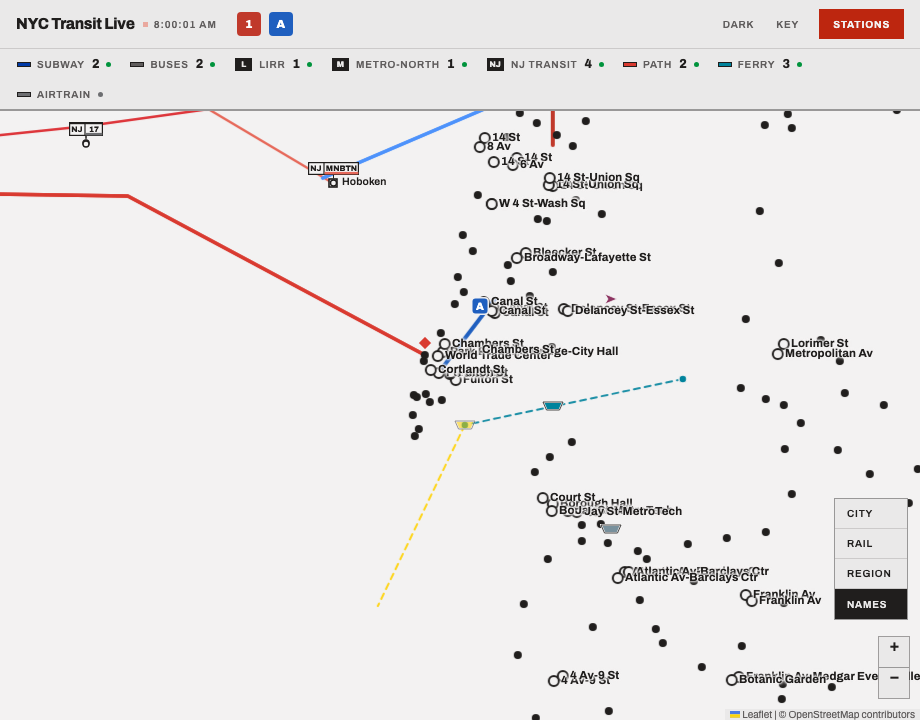
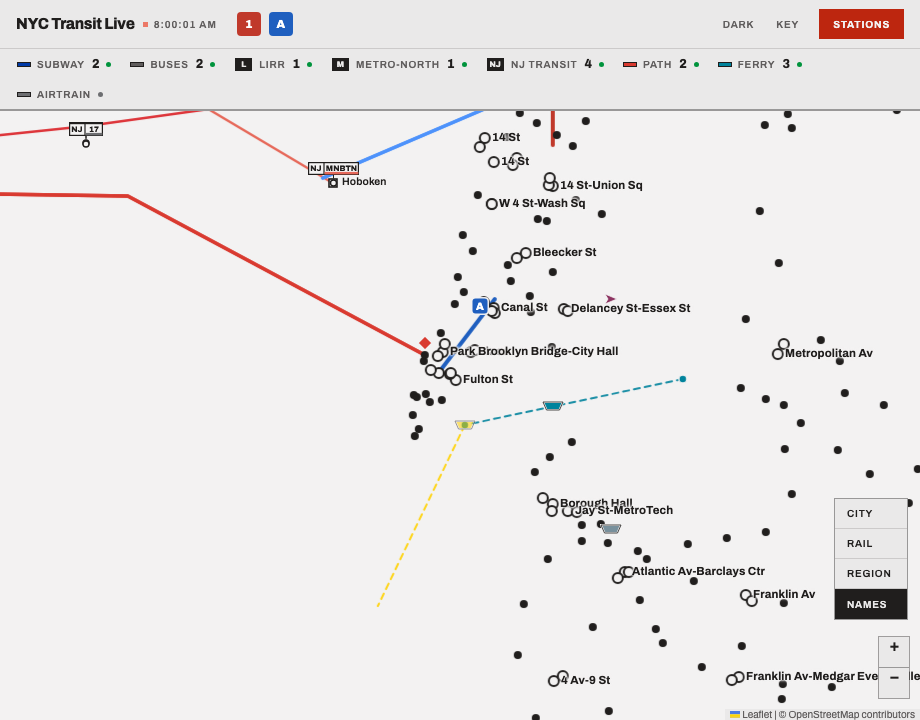
Subway hubs: the record re-run after the three rulings
The PR body, the ledger and the screenshots at 0c17079. The census stays at 48 complexes and
100 rings, now named once each: the hubs band draws 48 names where it drew 100, zoom 14 draws
444 names for 444 complexes, and the transition world (a payload with no complex_id) still
draws exactly the deployed build's map. The diagnosis's grid is re-run beside the before
column, the two after screenshots are retaken (each complex named once, the overprinting
gone), and the mutation table is all sixteen at 0c17079.

The ledger's F9 row gains ruling 1 and ruling 3; its F1 note gains ruling 2's floor and the
monitor's list. The body records the concurrent branch, claude/bus-zoom-rule: five shared
files, a clean git merge-tree, and the merged tree (18dab93, on no branch) passing backend,
node and the full hermetic e2e.

Documents and screenshots only.

Claude-Session: https://claude.ai/code/session_01Ap2nYH4fmBJS44TNwaTyoE

diff --git a/docs/reviews/subway-hub-definition/PR-BODY.md b/docs/reviews/subway-hub-definition/PR-BODY.md
@@ -1,9 +1,28 @@
 # Subway hubs: a hub is a station complex, not a stop
 
-Backend and frontend, four commits, the ruling that followed the label-band diagnosis of
-2026-09-25: the backend half (`92636bc`), the frontend half (`ff030f0`), the adversarial
-review's fixes (`3ff5c49`) and this record. Nothing
-touches `njt_auth.py` or any credentialed path, so **no NJ Transit mint was spent**.
+Backend and frontend, the ruling that followed the label-band diagnosis of 2026-09-25 and
+three more the operator gave after reading the first record:
+
+| commit | |
+| --- | --- |
+| `92636bc` | backend: `transfers.txt` required, `complex_id` on `/api/subway-stops` |
+| `ff030f0` | frontend: the predicate reads the complex; ring, name and kicker follow |
+| `3ff5c49` | the adversarial review's fixes (findings H1, H3, H4, H6, H7, H10) |
+| `d4cefee` | the first record |
+| `fcbce7e` | **ruling 1**: one name per complex |
+| `b786b4f` | **ruling 2**: a floor of one cross-stop row; the monitor names every member |
+| `0c17079` | **ruling 3**: the Key row reads "Transfer station: change between lines here" |
+| this record | the census, the grid and the screenshots re-run at `0c17079` |
+
+Nothing touches `njt_auth.py` or any credentialed path, so **no NJ Transit mint was spent**.
+
+**A concurrent branch shares five of these files.** `claude/bus-zoom-rule` (another session,
+open at the same time) touches `frontend/helpers.js`, `frontend/index.html`,
+`frontend/systems/shared.js`, `tests/e2e/fixtures/mr_pins.json` and
+`docs/reviews/map-redesign-rounds.md`. `git merge-tree` reports a clean merge of the two tips,
+and the merged tree's shared suites are recorded under Gates. The one semantic meeting point:
+that branch lands the map at the City preset, zoom 13, which is this branch's hubs band, so
+the first view a rider sees carries the 48 complex names.
 
 ## The finding
 
@@ -39,6 +58,17 @@ pairs; a stop in no row is its own complex) and serves it on `/api/subway-stops`
 complex: **a hub is a complex serving three or more trunks, or two or more trunks across two
 or more stops.** The ring and the label class read the same predicate; the kicker lists the
 routes of the complex, not the stop. The station alerts join is untouched.
+
+## Three more rulings, after the first record
+
+1. **One name per complex.** The ring on every stop; the label only on the stop whose id is
+   the complex id, in its own name. No complex draws two labels; the census stays at 48.
+2. **A floor under `transfers.txt`.** A table with zero cross-stop rows fails the load (the
+   live archive has 150; the floor is one), the content checked and not only the presence, as
+   the bus probe checks its capture. The monitor's subway file list names every required
+   member.
+3. **The Key row reads "Transfer station: change between lines here."** P1e moves by that
+   wording, recorded.
 
 ## The change
 
@@ -94,6 +124,31 @@ for the station panel.
 `load_subway_station_routes` returned `{}`. Both now say it raises, and that the backend half
 has landed.
 
+**8. One name per complex (ruling 1).** `stationNamesItself(stationId, complex)` says yes for
+the stop whose id is the complex id and for any stop whose complex is not known, and
+`loadStations` binds a name only where it says yes. The other stops of a complex keep their
+ring, their popup and their kicker, and draw no name. Times Square is named once, "Times
+Sq-42 St" on `127`; the Port Authority stop `A27` is ringed and unnamed. At zoom 14, where the
+band draws every name there is, the real payload draws 444 names for 444 complexes.
+
+**9. The floor (ruling 2).** `validate_subway_archive` runs the loader's own transfer parser,
+split out as the stream parser `_parse_transfer_rows` the way `_parse_stops_rows` was, through
+`require_parsed`, the gate `stops.txt` already has. Headers only, self rows only, renamed
+columns, or only "no transfer possible" rows: each is refused, and the error names
+`transfers.txt` for `/api/status`. The committed 613-row live table passes it with 150 pairs.
+`stop_times.txt` keeps PR 116's presence-only rule, which the ruling did not reach. **And the
+monitor's `SUBWAY_REQUIRED_MEMBERS`**, which stayed `("stops.txt", "shapes.txt")` through PR 116,
+now names every member `static_data._REQUIRED_MEMBERS` does, and a test holds both to one
+hand-written list. The ruling said "all four"; the app requires five (`stops`, `shapes`,
+`trips`, `stop_times`, `transfers`), and the monitor names all five.
+
+**10. The Key (ruling 3).** "Subway transfer station: two or more route lines meet (click for
+arrivals)" was F9's rule in words, and 95 stops where two lines meet at one platform now draw a
+dot. The row reads **"Transfer station: change between lines here"**. P1e's golden moves by
+that one line of `legend/names`, regenerated for that key alone; `keyglyphs.test.js` finds the
+row by its new words. **A1x did not move**: the ruling named it, and it was run, but it
+measures each Key row's ink and the row count rather than the words, so it passes unchanged.
+
 ## One reading the ruling's words allow, measured
 
 "Two or more trunks across two or more stops" could mean the union of the complex's trunks,
@@ -105,7 +160,9 @@ interchanges under either reading, so the union is implemented and nothing turns
 ## The census
 
 On production's payload, **124 rings under F9 become 100 stops in 48 complexes**, all 48
-pinned by name in `subway.spec.js` **D2i1**:
+pinned by name in `subway.spec.js` **D2i1**. Since ruling 1 each complex is **named once**, so
+the hubs band draws 48 names, one per row below, on the stop whose id is the complex id (the
+id in brackets):
 
 | complex | stops | routes |
 | --- | --- | --- |
@@ -167,36 +224,37 @@ Hills-71 Av, Queens Plaza and Prospect Park are the other three single-stop hubs
 ## Before and after, the diagnosis's own grid
 
 The diagnosis's scripts, rerun unchanged except that the oracle reads the complex. Each cell
-is band, labels drawn / labels drawn with the hub class, and the City preset's in-view count.
-"Before" is the deployed build (`d49e9a7`) against production; "after" is this branch against
-the same payload plus `complex_id`, through the hermetic mocks.
+is band, names drawn / names drawn with the hub class, and the City preset's in-view count.
+"Before" is the deployed build (`d49e9a7`) against production; "after" is this branch at
+`0c17079` against the same payload plus `complex_id`, through the hermetic mocks.
 
-| zoom | Names | before: deployed, production | after: this branch, same payload |
+| zoom | Names | before: deployed, production | after: `0c17079`, same payload |
 | --- | --- | --- | --- |
 | 11 | on | none, 0 / 0, 0 in view | none, 0 / 0, 0 in view |
-| 12 | on | hubs, **124 / 124**, 88 in view | hubs, **100 / 100**, 92 in view |
-| 13 | on | hubs, **124 / 124**, 25 in view | hubs, **100 / 100**, 67 in view |
-| 14 | on | all, 496 / 124, 76 in view | all, 496 / 100, 76 in view |
-| 15 | on | all, 496 / 124, 36 in view | all, 496 / 100, 36 in view |
+| 12 | on | hubs, **124 / 124**, 88 in view | hubs, **48 / 48**, 44 in view |
+| 13 | on | hubs, **124 / 124**, 25 in view | hubs, **48 / 48**, 27 in view |
+| 14 | on | all, 496 / 124, 76 in view | all, **444 / 48**, 55 in view |
+| 15 | on | all, 496 / 124, 36 in view | all, 444 / 48, 25 in view |
 | 11 to 15 | off | the same bands, 0 / 0 | the same bands, 0 / 0 |
 
 `stationLabelShown`, D2j's oracle, disagreed with the page 0 times in every cell of both
-columns, and no local name is drawn in either hubs band. The other hermetic worlds are
-unchanged: the stock fixture (two one-trunk stations, no hub) still shows every name from 13,
-D2j's world still has its one hub at Fulton St (three trunks at one stop), and the
-`routes: []` world still reads F1's degraded band.
+columns, and no local name is drawn in either hubs band. 444 is the number of complexes: 496
+stops, 52 of them siblings of a named stop, each ringed or dotted as before and unnamed. The
+other hermetic worlds are unchanged: the stock fixture (two one-trunk stations, no hub) still
+shows every name from 13, D2j's world still has its one hub at Fulton St (three trunks at one
+stop), and the `routes: []` world still reads F1's degraded band (every name from 13, one per
+complex).
 
 **One transition world, measured because it is real for an hour.** A browser holding the
-pre-deploy payload runs the new frontend on stops with no `complex_id`. At `3ff5c49` that draws
+pre-deploy payload runs the new frontend on stops with no `complex_id`. At `0c17079` that draws
 exactly the "before" column: hubs, 124 / 124 at 12 and 13, 88 and 25 in view at the City
-preset, the oracle agreeing in every cell. At `ff030f0` it drew 14 / 14, which is review
-finding H1 and the reason for the change above.
+preset, 496 names at 14, the oracle agreeing in every cell. At `ff030f0` it drew 14 / 14, which
+is review finding H1 and the reason for the change above.
 
-## What a rider sees, and one finding for the operator
+## What a rider sees
 
 Zoom 13, Names on, production's payload through the hermetic mocks, 1280 wide. Left is
-`d49e9a7`, right is this branch at `ff030f0`; on this payload `3ff5c49` draws the same hundred
-rings and names (the grid above was rerun there).
+`d49e9a7`, right is this branch at `0c17079`.
 
 | before | after |
 | --- | --- |
@@ -205,24 +263,16 @@ rings and names (the grid above was rerun there).
 
 Before: 72 St and 81 St on Central Park West named, 7 Av and 5 Av/53 St named, and Times
 Square, Grand Central, Union Square, Herald Square, Canal St and Fulton St drawn as plain dots
-with no name. After: the reverse, which is the ruling.
+with no name. After: the reverse, which is the first ruling, and each of those stations named
+once, which is ruling 1.
 
-**FINDING FOR THE OPERATOR: a complex's name is now drawn once per stop, and they overprint.**
-The ruling puts the ring and the hub class on every stop of a hub complex, and a name label is
-per stop, so **32 of the 100 hub labels repeat a name another stop of the same complex already
-draws**: "Times Sq-42 St" four times, "Fulton St" four, "Canal St" four, "Grand Central-42
-St", "14 St-Union Sq", "Atlantic Av-Barclays Ctr" and "Broadway Junction" three each, and
-fifteen more twice. Under F9 it was 3. At zooms 12 and 13 they sit a few metres apart and
-overprint, visibly in both screenshots (Grand Central, Union Square, Canal St, and Chambers St
-against Brooklyn Bridge-City Hall), and the City preset's zoom 13 now carries 67 hub names in
-view where it carried 25.
-
-**Not changed here, because it is a design decision and the ruling made the other one**: "the
-ring and the label class read the same predicate". The narrowest remedy would keep the ring on
-every stop and give the `hub` class (and so the name at 12 and 13) to one stop per complex,
-the one whose id is the complex id, which is one predicate plus one comparison. Names at 14
-and above would still be per stop, as they are today for every local. That is the operator's
-to rule on; nothing in this branch depends on the answer.
+**What ruling 1 measured away.** At `3ff5c49`, with a name per stop, 32 of the 100 hub names
+repeated another stop of the same complex ("Times Sq-42 St" four times, "Fulton St" four,
+"Canal St" four) and overprinted at 12 and 13, and the City preset's zoom 13 carried 67 hub
+names in view. Now it is 27, none repeated. What remains is ordinary label collision between
+two DIFFERENT complexes that sit close together (Park Place against Brooklyn Bridge-City Hall
+downtown), which is the density MR2 measured for every zoom and not something a complex rule
+can decide.
 
 ## Tests
 
@@ -264,14 +314,23 @@ committed archive so the two fixtures cannot drift apart silently.
 | node: a closed sibling platform does not make a complex two stops (H4) | "hub definition: a stop nothing calls at does not make a complex two stops" |
 | backend: transfer types 3, 4 and 5 join nothing, a blank type joins (H7) | `test_a_transfer_type_that_says_no_change_joins_nothing` |
 | backend: the complex id is the smallest STATION id, whatever the row order and whatever non-station id links the complex (H10) | `test_the_complex_id_is_the_smallest_station_in_it_whatever_the_order` |
+| **ruling 1: no complex draws two names**, at zoom 14 where every name is drawn: 444 names for 444 complexes, each on the stop whose id is the complex id, in its own words; `A27` ringed and unnamed | **D2i6** |
+| ruling 1: the census stays at 48, one hub name per hub complex, every one on a ringed stop | **D2i1**; **D2i2** draws 48 at zoom 13 |
+| ruling 1, node: over the real payload one stop per complex names itself, 48 of them hubs; with no complex known every stop does | "hub definition: one name per complex, on the stop whose id is the complex id" |
+| **ruling 2: zero cross-stop rows fail the load**: headers only, self rows only, renamed columns, only type 3 | `test_validate_rejects_a_transfers_table_with_no_cross_stop_row`, four cases |
+| ruling 2: the same end to end, cache and redownload both refused | `test_a_publication_whose_transfers_say_nothing_fails_the_load` |
+| ruling 2: one pair passes, and so does the committed live table, with its 150 pairs | `test_validate_accepts_one_cross_stop_row_and_the_live_table` |
+| **ruling 2: the monitor names every required member**, each missing one a FAIL naming it, and the monitor's list equal to the app's | `test_contract_monitor.py::test_subway_static_missing_required_member_is_fail`, five cases, and `test_the_monitor_requires_what_the_app_requires` |
+| **ruling 3: the Key row's words** | `pins.spec.js` **P1e** (moved by one line) and `keyglyphs.test.js` test 7 |
 | **F11's alerts pin holds** | `pins.spec.js` **P3c**, its golden untouched |
 
 **Three node tests rewritten rather than deleted**, because the rule they asserted changed:
 "one trunk is a local dot and two or more is a transfer ring" became the complex rule's test,
 F9's pairs test keeps its one-trunk half and moves its two-trunk examples across two stops,
 and the label test gains the complex forms. **P2a's golden moves by one field**, `complex`,
-and against `main` the whole change to `mr_pins.json` is one line, `"complex": null`: the stock
-world names no complex, and its registry entry says so. Nothing else in the golden moved.
+and against `main` the change to `mr_pins.json` is two lines: `"complex": null` in P2a's
+registry entry (the stock world names no complex, and its entry says so), and P1e's one row of
+`legend/names`, moved by ruling 3's wording. Nothing else in the golden moved.
 D2i's title and D2's fixture comment now say three trunks at one stop, which is what makes
 Fulton St its world's one hub.
 
@@ -279,22 +338,27 @@ Fulton St its world's one hub.
 
 Each in a real `git worktree` detached at the commit under test, applied alone, the named tiers
 run against it, and the tree verified clean before and after. The four the ruling named ran at
-`ff030f0` and **again at `3ff5c49`**, with the review's guards added; the table is the second
-run.
+`ff030f0`, again at `3ff5c49` with the review's guards added, and **all sixteen at `0c17079`**,
+which is the table.
 
 | # | Guard reverted | Result | Killed by |
 | --- | --- | --- | --- |
-| M1 | the predicate counting per stop again (F9's `trunks >= 2`, the stop count ignored) | **killed** | node: **the diagnosis's stations** (96 St first) and six more; e2e **D2i1**, **D2i2** |
-| M1b | the same at the draw's call site: the ring and the label handed the stop's own routes | **killed** | e2e **D2i1**, **D2i2**. Node cannot see a call site, which is why the e2e tier exists |
-| M2 | `transfers.txt` removed from the required tuple | **killed** | the two `[transfers.txt]` F1 cases, the declared-set gate and `test_validator_rejects_an_archive_missing_a_required_member[subway-transfers.txt]` |
+| M1 | the predicate counting per stop again (F9's `trunks >= 2`, the stop count ignored) | **killed** | node: **the diagnosis's stations** (96 St first) and seven more; e2e **D2i1**, **D2i2** |
+| M1b | the same at the draw's call site: the ring and the label handed the stop's own routes | **killed** | e2e **D2i1**, **D2i2**, **D2i6**. Node cannot see a call site, which is why the e2e tier exists |
+| M2 | `transfers.txt` removed from the required tuple | **killed** | the declared-set gate and `test_the_monitor_requires_what_the_app_requires`. At `ff030f0` the missing-member cases killed it too; since ruling 2 the floor's own parser also refuses a missing `transfers.txt`, so those cases no longer tell the two apart and the declared-set gate is what does |
 | M3 | the kicker reading the stop's routes | **killed** | e2e **D2i3**, and **D2i4**'s premise |
 | M4 | union-find dropped for pairwise only (each station's own partners) | **killed** | **`test_a_three_stop_chain_is_one_complex`**, the non-station link test, and the H7 and H10 tests |
 | M5 | H1's fallback removed: a bare routes list read as a stop alone | **killed** | e2e **D2i5**; node, three tests |
 | M6 | the theme repaint asking the stop's routes | **killed** | e2e **D2i1**'s theme swap. At `ff030f0` this survived the whole suite, which is review finding H3 |
 | M7 | every stop counted toward "two stops", routed or not | **killed** | node, the H4 test |
-| M8 | the transfer-type filter removed | **killed** | `test_a_transfer_type_that_says_no_change_joins_nothing` |
+| M8 | the transfer-type filter removed | **killed** | the H7 test, and the floor's `no-transfer-possible-only` case |
 | M9 | the complex id as the first station stops.txt lists | **killed** | `test_the_complex_id_is_the_smallest_station_in_it_whatever_the_order` |
 | M9b | the complex id as the union-find root | **killed** | the same test, through the lower-sorting non-station id |
+| M10 | **ruling 1 at the call site**: a name bound on every stop | **killed** | e2e **D2i6**, **D2i1**, **D2i2** |
+| M10b | **ruling 1 in the helper**: `stationNamesItself` always yes | **killed** | node, the one-name test; e2e **D2i6** |
+| M11 | **ruling 2's floor removed** from `validate_subway_archive` | **killed** | the four no-cross-row cases and the end-to-end load test |
+| M12 | **ruling 2's monitor list** without `transfers.txt` | **killed** | `test_subway_static_missing_required_member_is_fail[transfers.txt]` and the equality test |
+| M13 | **ruling 3's words** reverted to F9's | **killed** | `pins.spec.js` **P1e**; `keyglyphs.test.js` test 7 |
 
 **What M1 did not kill at `ff030f0`, measured, and said so rather than hidden: D2j.** D2j's
 oracle and the page share `isTransferStation`, so a mutation to the rule moves both sides,
@@ -310,93 +374,82 @@ is why the synthetic chain exists.
 One round, over `92636bc..ff030f0`, run as the repository's `adversarial-review` workflow in
 its own worktree: five finders (silent failure, removed behaviour, boundary and type, test
 vacuity, operator reality), a triage that merged 17 candidates into 10, and batched verifiers.
-**Nine confirmed, one refuted.** Six are fixed in `3ff5c49`; three are the operator's. The
+**Nine confirmed, one refuted.** Six are fixed in `3ff5c49`; the other three went to the
+operator and are fixed on the rulings in `b786b4f` and `0c17079`. The
 findings are numbered H1 to H10 here, because this record already cites MR2's F1 and F9 and
 the review's own F-numbers collided with them.
 
 | # | Severity | Finding | Disposition |
 | --- | --- | --- | --- |
 | H1 | medium | A payload with no `complex_id` (a browser's cached copy for the hour after a deploy) read as "every stop alone": 14 rings, no subway name in Manhattan at 12 or 13, Names pressed | **Fixed.** A bare list gets F9's answer; **D2i5** |
-| H2 | medium | A `transfers.txt` that is present with no cross-stop rows loads as every stop alone under `ready`, and the comment claimed the requirement prevented that | **Comment fixed; the gap is for the operator**, below |
+| H2 | medium | A `transfers.txt` that is present with no cross-stop rows loads as every stop alone under `ready`, and the comment claimed the requirement prevented that | **Fixed on ruling 2** (`b786b4f`): a floor of one cross-stop row; four shapes of "says nothing" refused |
 | H3 | medium | No test repainted the rings on a theme swap where complex and stop disagree; the repaint mutated to per-stop survived | **Fixed.** D2i1 swaps to dark; M6 now dies |
 | H4 | low | A stop with no service counted toward "two or more stops" | **Fixed**, node test, M7 |
-| H5 | low | The Key still reads "Subway transfer station: two or more route lines meet", and 95 stops where two lines meet at one stop now draw a dot | **For the operator**, below |
+| H5 | low | The Key still reads "Subway transfer station: two or more route lines meet", and 95 stops where two lines meet at one stop now draw a dot | **Fixed on ruling 3** (`0c17079`): "Transfer station: change between lines here" |
 | H6 | low | The two corrected comments overclaimed: an absent `stop_times.txt` fails the load, a header-only one does not | **Fixed** |
 | H7 | low | `transfer_type` 3 (no transfer possible) and 4/5 (in-seat) joined stops | **Fixed**, test, M8 |
-| H8 | low | The contract monitor's `SUBWAY_REQUIRED_MEMBERS` is still `("stops.txt", "shapes.txt")`, so its drift check passes a publication production now refuses | **For the operator**, below |
+| H8 | low | The contract monitor's `SUBWAY_REQUIRED_MEMBERS` is still `("stops.txt", "shapes.txt")`, so its drift check passes a publication production now refuses | **Fixed on ruling 2** (`b786b4f`): the monitor names every member, held equal to the app's |
 | H9 | low | "Nothing covers paintZoomBand's hub count reading the complex" | **Refuted**: its premise that no e2e world carries `complex_id` is false (D2i1's does) |
 | H10 | low | Nothing held "the smallest station id" | **Fixed**, test, M9 and M9b |
 
-### For the operator: three decisions, none blocking
+### What went to the operator, and what came back
 
-1. **The repeated names (above), with the screenshots.** One remedy is one comparison: the
-   `hub` class on the stop whose id is the complex id.
-2. **H2 and H8, one question: how deep "required" goes.** The ruling reused PR 116's rule,
-   and that rule checks presence. A `transfers.txt` with headers only, or with only self rows,
-   passes it and loads as every stop alone under `ready`, with no signal but one INFO log line
-   ("496 stations, 496 complexes"). The same was already true of a header-only
-   `stop_times.txt`. A floor would be one `require_parsed` call per member, the gate
-   `stops.txt` already has; the hermetic archives that carry these files header-only (the
-   subway test builders and F08's four) would need one real row each. Separately, the
-   six-hourly monitor's subway tuple predates PR 116. Widening it to match
-   `_REQUIRED_MEMBERS` is one line plus its synthetic archives; F1's branch chose not to,
-   relying on `/healthz`, which sees a cold start but not a warm process refusing a new
-   publication.
-3. **H5, the Key's words.** "Two or more route lines meet" was F9's exact rule and is now true
-   of every ring, but not of every station where two lines meet. P1e allows an addition, so a
-   second clause is possible without moving the pin. Left alone because the words are the
-   Key's and the ruling did not reach them.
+The first record left three decisions open: the repeated names, how deep "required" goes
+(H2 and H8), and the Key's words (H5). The operator ruled on all three, and they are the
+three rulings at the top of this body, delivered in `fcbce7e`, `b786b4f` and `0c17079`. Nothing
+from the review is open.
 
 ## Gates
 
-At `3ff5c49`, the code tip, from the worktree, with the credentials scrubbed. This record's
+At `0c17079`, the code tip, from the worktree, with the credentials scrubbed. This record's
 commit adds documents and screenshots only.
 
 | Gate | |
 | --- | --- |
-| `pytest` (backend) | **1752** passed, from 1738 on `main` at `d49e9a7` |
+| `pytest` (backend) | **1763** passed, from 1738 on `main` at `d49e9a7` |
 | `ruff check`, `ruff format --check` | clean, 79 files |
 | `mypy` | clean, 30 source files |
-| node tier, `node --test "frontend/*.test.js" "tests/*.test.js"` | **402** passed |
-| hermetic e2e, the full suite | **323** passed (two workers; see below) |
+| node tier, `node --test "frontend/*.test.js" "tests/*.test.js"` | **403** passed |
+| hermetic e2e, the full suite | **324** passed, two workers |
 | contract-tier lint and format | clean |
 | contract API tier | **39** passed (38 before, plus the complex scenario) |
 | contract browser tier | **5** passed |
 | `run_all.sh` | **15 of 15** |
 
-**Three things about how they were run, because another session was working in the same
-repository at the same time.**
+**And the merge with the concurrent branch, tested rather than assumed.** `git merge-tree`
+of `0c17079` and `claude/bus-zoom-rule` at `6b447c2` is clean. The merged tree, committed as
+`18dab93` on no branch (a `commit-tree` object checked out in a scratch worktree, so no ref
+moved), passes backend **1763**, node **406** and the full hermetic e2e **354**. The two
+branches share `frontend/helpers.js`, `frontend/index.html`, `frontend/systems/shared.js`,
+`tests/e2e/fixtures/mr_pins.json` and `docs/reviews/map-redesign-rounds.md`, and each side's
+edits are additive to the other's. If that branch moves again before either merges, the
+second to merge should rerun this.
+
+**How they were run, because another session was working in the same repository at the same
+time.**
 
 - **Every run was in `/Users/benjaminrosenfield/nyc-transit-live-hubs`**, a worktree of its
   own. The first minutes of this branch were not: a `git switch` in the main checkout moved
   another session's HEAD, and its commit `8e30014` landed on this branch. It was moved back to
   `claude/bus-zoom-rule` with `git reset --keep`, this branch was reset to `d49e9a7`, and that
   session confirmed its tree intact. Nothing of either branch is in the other.
-- **The hermetic e2e ran on port 5184**, through a config that re-exports
-  `tests/e2e/playwright.config.js` unchanged but for the port, because the repository's config
-  reuses whatever already holds 5173 and the other session held it. The contract browser tier
-  cannot move (its spec reads the ports from its config), so it ran on 5174 and 5175 in a
-  window agreed with that session.
+- **The hermetic e2e ran on port 5184** (5188 for the merged tree), through a config that
+  re-exports `tests/e2e/playwright.config.js` unchanged but for the port, because the
+  repository's config reuses whatever already holds 5173 and the other session held it. The
+  contract browser tier cannot move (its spec reads the ports from its config), so it ran on
+  5174 and 5175 in windows agreed with that session, announced at start and finish.
 - **The node tier's `nodetier.test.js` needs `TMPDIR` resolved on macOS.** Its loader hook
   compares `/private/var/...` with `/var/...`, and it fails that way on untouched `main` too.
   CI runs on Linux, where the two are one path.
-
-**The e2e suite needed two workers to mean anything on this machine today**, and the runs that
-did not are recorded rather than dropped. The other session was running Playwright mutation
-passes back to back, and the load average sat between 20 and 33 on 8 cores. At the default
-four workers the full suite at `3ff5c49` failed 6 specs on one run and 17 on the next. All but
-two failed inside `boot`, before the page loads, on Playwright's "clock.pauseAt: Cannot
-fast-forward to the past", which is a race in the suite's frozen-clock boot. The other two
-were timing assertions (A1v3's announcement and A7h's superseded fetch). Rerun alone, the
-failures passed, A1y 4 of 4 on this branch and on `main`, and the whole suite then passed 323
-of 323 at two workers. Before the review commit was amended to renumber its findings (it was `47153da` then, and its
-code differed from `3ff5c49` only in eleven comment and test-title lines), the default-worker
-run had passed 323 of 323 at a lower load.
-
-**The merge with `claude/bus-zoom-rule` will meet in two files**, both additive on each side:
-`frontend/helpers.js` (that branch adds bus-band helpers; this one changes the station
-predicate) and `tests/e2e/fixtures/mr_pins.json` (that branch adds P6's pins; this one adds one
-line to P2a's).
+- **The e2e suite needed two workers to mean anything on this machine today**, and the runs
+  that did not are recorded rather than dropped. With the other session running Playwright
+  passes back to back, the load average reached 20 to 33 on 8 cores, and at the default four
+  workers full runs failed 6 and then 17 specs. All but two failed inside `boot`, before the
+  page loads, on Playwright's "clock.pauseAt: Cannot fast-forward to the past", a race in the
+  suite's frozen-clock boot; the other two were timing assertions (A1v3's announcement, A7h's
+  superseded fetch). At `0c17079` one two-worker run under that load failed three (A7h, and
+  A6n and P5e in `boot`); those passed 12 of 12 repeated alone, and the next full run passed
+  324 of 324 at a load average of 5 to 8.
 
 ---
 🤖 Generated with [Claude Code](https://claude.com/claude-code)

diff --git a/docs/reviews/map-redesign-rounds.md b/docs/reviews/map-redesign-rounds.md
@@ -138,7 +138,11 @@ a stop (F9's row, amended), and the complexes come from `transfers.txt`, so that
 required members by the same rule, with three consumers of its own: the transfer ring, the hub
 label class and the kicker, which lists the complex's routes rather than the stop's.
 `_REQUIRED_MEMBERS` is `("stops.txt", "shapes.txt", "trips.txt", "stop_times.txt",
-"transfers.txt")`. The station alerts join is the one consumer of the routes index that did NOT
+"transfers.txt")`, and `transfers.txt` is the one of them with a content floor as well as a
+presence check: on the operator's ruling, a table with no cross-stop row fails the load through
+`require_parsed`, the gate `stops.txt` already has. The contract monitor's subway file list,
+which had stayed `("stops.txt", "shapes.txt")` through this note's own branch, names all five
+now and is held equal to the app's. The station alerts join is the one consumer of the routes index that did NOT
 move to the complex: an alert for the 1 belongs on the 1's platform, and `subway.spec.js`
 **D2i4** holds that on the 7's platform at Times Square, where the kicker now names the 1.
 
@@ -614,7 +618,7 @@ nothing.
 | **F2** | **The station name labels painted over the train bullets.** A permanent Leaflet tooltip defaults to `tooltipPane` at z-index 650 and the vehicles are in `markerPane` at 600. Verified from this stage's own committed screenshots, `after-desktop.png` against `after-desktop-names-off.png`: same commit, same frozen clock, same view, differing only by `data-labels`. One bullet lost **44% of its route-coloured pixels** and its route letter with them. **Round 2's own pass called this "a 2x3 pixel corner and no more"**, and that note was wrong: it measured the label's BOX against the anchor rather than its painted text, which is how a defect got through a review that was looking directly at it. | **Fixed.** A `stationLabelPane` at 460, above the dots a name may cover (its own station) and below every vehicle it may not. `D2x` asks which pane the tooltips are actually IN, which is the question the pane-order assertions do not. |
 | **F3**, **F10** | **Both bullet rings were measured against the wrong backdrop.** Both reach 4px out from a 24px chip while `.bul-group`'s gap was the design's 2px, so each ring's left and right segments sat inside the neighbouring bullet's border box, and **round 2's own `z-index: 1` fix is exactly what makes them paint there** rather than be clipped. Against a neighbour's fill `--focus` reads **1.10** on the A/C/E blue, 1.08 on J/Z, 1.23 on 1/2/3, 1.42 on 4/5/6; `--ink` reads 2.73 and 2.69, and in the dark theme 1.67 on the yellow trunk. 1.10 is the exact number MR1 round 2 recorded as the defect an outside ring was chosen to escape, so the claim "measured against `--surface`, where `--focus` reads 5.53" held for the top and bottom edges only. | **Fixed with one number**: the gap is **6px**, the minimum that leaves a 2px surface band inside the ring and 2px outside it before the neighbour begins. Verified at the pixel level in both themes and both states: surface, ring, surface, on both sides. A third deviation from the drawn design, with the arithmetic beside it. |
 | **F4** | **Route focus wrote into the freshness contract's channel with a stronger value.** `FOCUS_DIM_TRAIN` 0.15 is below `STALE_MARKER_OPACITY` 0.45, so a live off-focus train draws dimmer than a ten-minute-stale on-focus one, and an off-focus stale train lands at **0.0675** while staying clickable and screen-reader-announced. Leaflet's `setOpacity` writes nothing but `style.opacity`. Corroborated by the app's own convention: `FERRY_DOCKED_OPACITY` is 0.55, deliberately ABOVE the floor. | **The operator's ruling: keep both numbers and take the reach instead.** Focus still multiplies on the contract's own opacity and `markerOpacity` is untouched. While a route is focused every off-focus marker is `aria-hidden` and takes no pointer events, and clearing restores both. `D2v` walks it in both directions including a real click at the marker's centre; `D2w` holds it across a poll and for a train arriving mid-focus, because `setIcon` replaces the element. |
-| **F9** | **`isTransferStation` counted route IDS, so skip-stop and local-express pairs were interchanges.** Marcy Av is J and Z, one line taking turns; every `["A","C"]` and `["4","5"]` stop is the same shape. All of them drew the paper transfer ring and took the `hub` class the zoom-12 band exists to keep sparse. | **The operator's ruling: count TRUNKS**, the groups `lineColor()` already knows, because sharing a colour is what being one line means. `P1f`'s subway station pin moves with it: six lines, both stations, ring to dot, nothing else in any pin. **AMENDED on `claude/subway-hub-definition`, after the label-band diagnosis of 2026-09-25.** Counting trunks was right; counting them PER STOP was not. Measured on production's own `/api/subway-stops`: 108 of the rule's 124 rings sat on stops `transfers.txt` joins to no other (the B beside the C on Central Park West, the D beside the R on Fourth Avenue), which is shared track, and 22 of the 35 real complexes had no ring at all, Times Square among them, because each of its five stops carries one trunk. The deployed build named 96 St, 86 St and 72 St at zoom 13 for exactly that reason, and the band, the toggle and the data were all correct. **The operator's second ruling: a hub is a station complex**, from `transfers.txt`'s cross-stop rows by union-find: a complex serving three or more trunks, or two or more trunks across two or more stops. 124 rings become 100 stops in 48 complexes (`subway.spec.js` **D2i1**, every one named), no local is named at zoom 13 (**D2i2**), a payload that names no complex still takes this row's per-stop answer, which is what a browser's cached copy is for the hour after a deploy (**D2i5**, review finding H1), and `P2a`'s registry pin gains the `complex` field it now carries. The record is `docs/reviews/subway-hub-definition/PR-BODY.md`. |
+| **F9** | **`isTransferStation` counted route IDS, so skip-stop and local-express pairs were interchanges.** Marcy Av is J and Z, one line taking turns; every `["A","C"]` and `["4","5"]` stop is the same shape. All of them drew the paper transfer ring and took the `hub` class the zoom-12 band exists to keep sparse. | **The operator's ruling: count TRUNKS**, the groups `lineColor()` already knows, because sharing a colour is what being one line means. `P1f`'s subway station pin moves with it: six lines, both stations, ring to dot, nothing else in any pin. **AMENDED on `claude/subway-hub-definition`, after the label-band diagnosis of 2026-09-25.** Counting trunks was right; counting them PER STOP was not. Measured on production's own `/api/subway-stops`: 108 of the rule's 124 rings sat on stops `transfers.txt` joins to no other (the B beside the C on Central Park West, the D beside the R on Fourth Avenue), which is shared track, and 22 of the 35 real complexes had no ring at all, Times Square among them, because each of its five stops carries one trunk. The deployed build named 96 St, 86 St and 72 St at zoom 13 for exactly that reason, and the band, the toggle and the data were all correct. **The operator's second ruling: a hub is a station complex**, from `transfers.txt`'s cross-stop rows by union-find: a complex serving three or more trunks, or two or more trunks across two or more stops. 124 rings become 100 stops in 48 complexes (`subway.spec.js` **D2i1**, every one named), each complex's name drawn once on the stop whose id is the complex id (the operator's third ruling on this row, **D2i6**), the Key's ring row reading "Transfer station: change between lines here" (P1e moved by that wording), no local is named at zoom 13 (**D2i2**), a payload that names no complex still takes this row's per-stop answer, which is what a browser's cached copy is for the hour after a deploy (**D2i5**, review finding H1), and `P2a`'s registry pin gains the `complex` field it now carries. The record is `docs/reviews/subway-hub-definition/PR-BODY.md`. |
 | **F6** | **The 6.5px paper casings shared one canvas with every other family's route lines.** Leaflet's canvas draws in insertion order regardless of LayerGroup, the eleven static loaders start together, and `/api/subway-routes` is the largest payload and re-fetches on a warming 503, so the ribbons routinely landed last and erased PATH's 33rd St line (weight 2.5), the AirTrain at Howard Beach (3) and the LIRR Atlantic Branch (2.5). Whether another family's line survived was a race. | **The operator's ruling: a `subwayLinePane` below `overlayPane`**, so the subway is the base network and no arrival order can change it. The whole pane order is documented in one block where the panes are created, and `D2u` pins it with four families drawn in shuffled insertion order. |
 | **F1** | **Every station name can vanish with a green status.** `stop_times.txt` is not a required member of the subway static archive, `load_subway_station_routes` returns `{}` on any failure, and the endpoint then serves `routes: []` for all 496 stations while `subway_static_status` stays `ready`. Every station is a local, no label carries `hub`, and at the opening zoom 12 and the City preset's 13 nothing renders while the Names button reads pressed. Reproduced by execution against an archive with no `stop_times.txt`. | **Split on the operator's ruling.** The band's arithmetic was right and is not the bug: "hubs from 12" showing no hubs is the correct answer to that data. **This branch keeps the frontend's half**: with no hub anywhere the band shows every name from **13**, one zoom later than the hub band because 12 is the worst zoom the collision measurements found, and one earlier than the all band because a rider should not need 14 to see any name. Plus F7 below. **The backend half is its own branch after MR2 merges**: `stop_times.txt` becomes a required member, the rule PATH and the ferry already apply to `shapes.txt`. Its three consumers are the transfer ring, the hub label class and the station alerts matcher. **FIXED on branch `claude/subway-static-station-routes`**, one backend commit: `trips.txt` and `stop_times.txt` joined `_REQUIRED_MEMBERS`, `load_subway_station_routes` stopped swallowing, and the last-known-good index is held by a test. The section on this phase's backend obligation records what it did. |
 | **F7** | **The Names toggle reported a state it did not have.** Below zoom 12 the band is `none` and two of the three view presets put the map there, so the button flipped `data-labels` with no visible change, no announcement and `aria-pressed="true"` intact. Route focus has announced since this stage was written; this control never did. | **Fixed.** It announces, and carries a tooltip in the one state a rider cannot deduce from the screen. **And writing its spec found a false sentence in the fix**: keyed on the hub count, the tooltip appeared over any hubless network and claimed no station listed its routes above a map where every station did. The band is keyed on hubs (that is what the band asks) and the sentence on the registry (that is what the sentence is about). |
